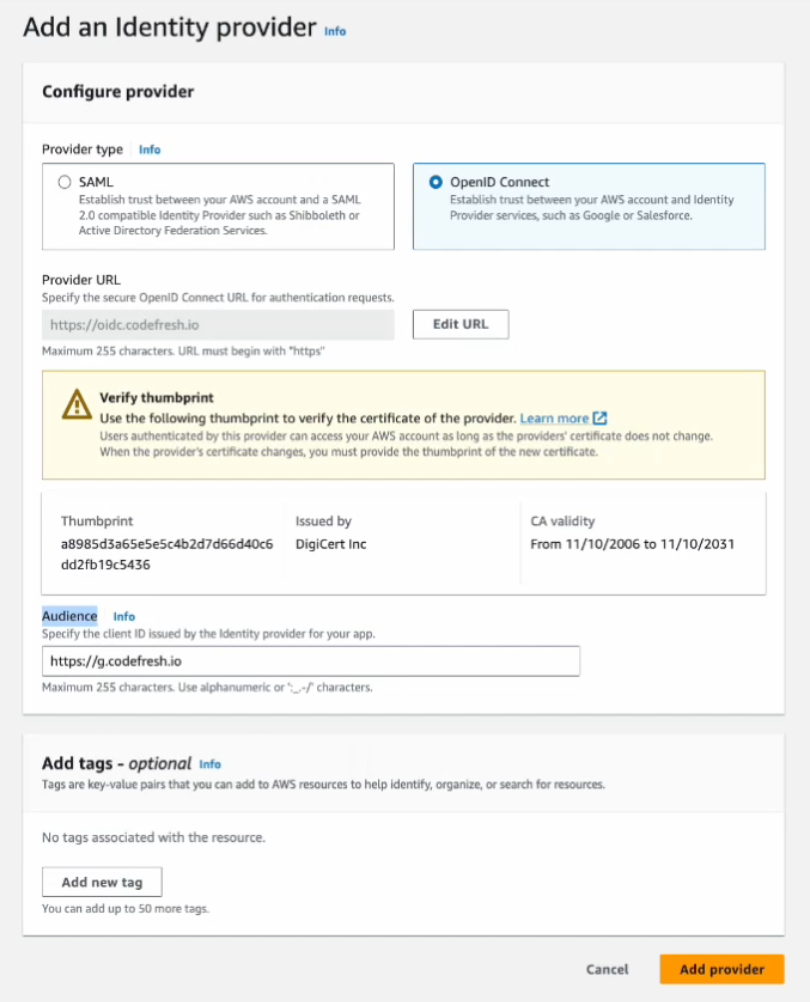
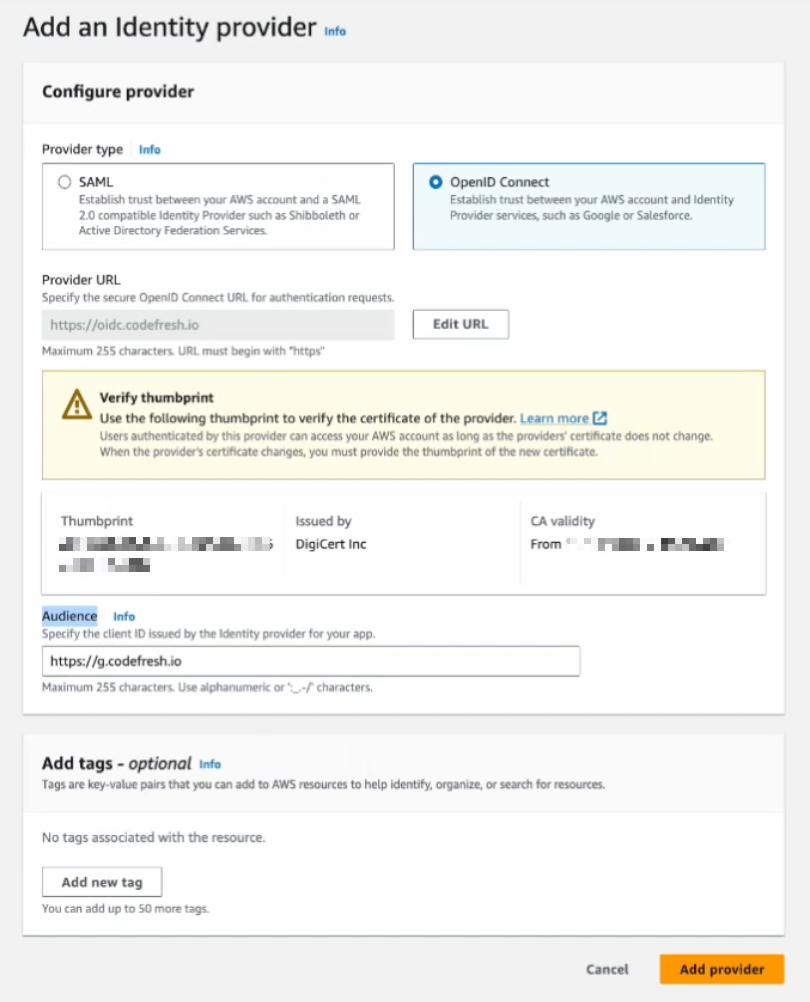
Classic OIDC feedback (#828)
* Update gitops-abac.md

* Update oidc-pipelines.md

Partial implementation of feedback from Daniel Soifer

* Update oidc-pipelines.md

* Update screenshots

Blurred all details in screenshots

* Update screenshots

* Update oidc-pipelines.md

Implemented more feedback from Daniel S

* Update add-cf-identity-provider.png

* Update oidc-pipelines.md

* Update oidc-pipelines.md

Changed region(s): [[0.0617, 0.5259, 0.3395, 0.5878], [0.7099, 0.5259, 0.8951, 0.5569]]

diff --git a/_docs/integrations/oidc-pipelines.md b/_docs/integrations/oidc-pipelines.md
@@ -186,23 +186,36 @@ max-width="60%"
 %}
 
 
+
 **What does the `obtain-oidc-id-token` Marketplace step do?**  
 
 The step:  
 
-1. Makes an API call to the Codefresh OIDC provider passing the `CF_OIDC_REQUEST_TOKEN` and the `CF_OIDC_REQUEST_URL`.  
-  <!--- These two variables are injected into each build of the pipeline. -->
+1. Makes an API call to the Codefresh OIDC provider passing the `CF_OIDC_REQUEST_TOKEN` and the `CF_OIDC_REQUEST_URL` variables.    
+  
+  >**NOTE**:  
+  Codefresh injects these two variables for every pipeline build, ensuring their availability for use, regardless of the cloud provider's authentication mechanism, whether it's OIDC ID tokens or static credentials.
+
+
   Example:  
   `curl -H "Authorization: $CF_OIDC_REQUEST_TOKEN" "$CF_OIDC_REQUEST_URL"`  
   where:  
-    * `CF_OIDC_REQUEST_TOKEN` is a Codefresh access token used to request the OIDC ID token for the OIDC provider.  
-    * `CF_OIDC_REQUEST_URL` is the URL from which the ID token is requested. 
+    * `CF_OIDC_REQUEST_TOKEN` is an access token used to request the OIDC ID token for the OIDC provider.
+    * `CF_OIDC_REQUEST_URL` is the URL from which to request the ID token. 
   
+  You can also insert the `curl` command as an API call in a freestyle step to get the same result.
+
+{:start="2"} 
 1. Sets the ID token in the `ID_TOKEN` environment variable.  
   You can use this environment variable in subsequent steps within the same pipeline.
 
->**Use API call in freestyle step**  
-You can also insert the `curl` command in a freestyle step to get the same result.
+<br>
+
+**Requesting new OIDC ID tokens during build**  
+* OIDC ID tokens expire after five minutes. If needed, you can request new OIDC ID tokens multiple times within the same pipeline, through the `obtain-oidc-id-token` step, or within a `freestyle` step with an API call.
+
+* The `CF_OIDC_REQUEST_TOKEN` variable with the request token remains valid for the duration of the pipeline build. This restriction maintains security as requests for new OIDC tokens are limited to the build’s lifecycle.
+
 
 <br><br>
 
